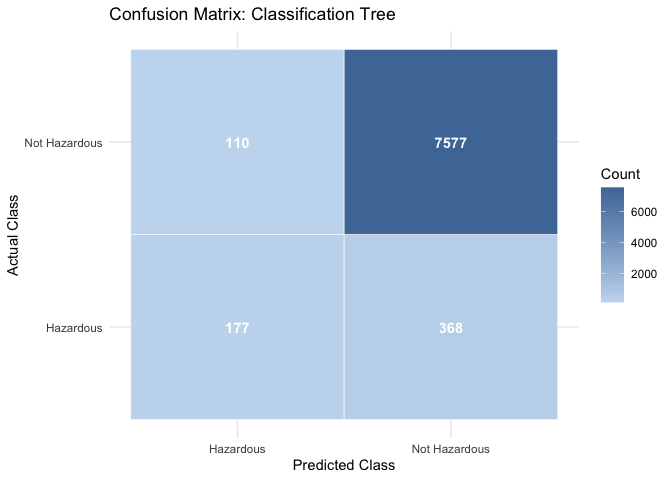
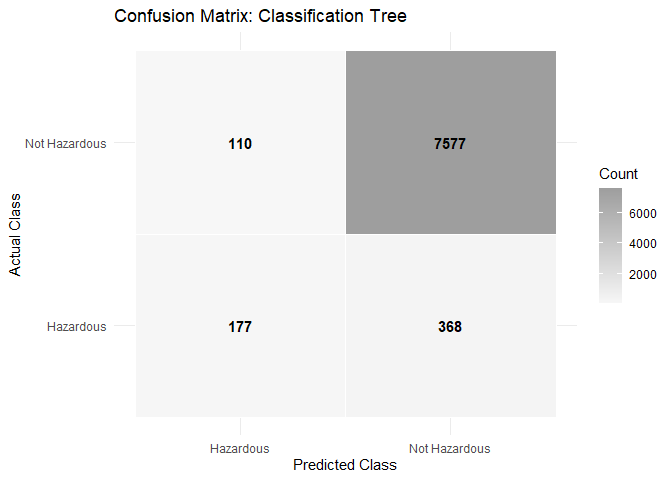
Model wording tweaks + rm variable importance redundancy

diff --git a/README.md b/README.md
@@ -13,7 +13,11 @@ Hazardous Asteroids (PHAs)**, objects large enough and close enough to
 Earth’s orbit that a future impact cannot be completely ruled out.
 Understanding what distinguishes a hazardous NEO from a non-hazardous
 one is both scientifically interesting and practically important for
-planetary defense planning.
+planetary defense planning. The official definition matters for this
+project: [NASA CNEOS](https://cneos.jpl.nasa.gov/about/neo_groups.html)
+defines PHAs as asteroids with Earth MOID \<= 0.05 au and absolute
+magnitude H \<= 22.0, so size, brightness, and orbital-distance measures
+are directly tied to the label.
 
 This report investigates a dataset of 42,919 NEOs sourced from NASA’s
 NeoWs (Near Earth Object Web Service) API. We explore which physical and
@@ -76,7 +80,7 @@ the response is deeply nested JSON, each page was parsed manually using
 approach data, and orbital fields into a flat tibble. After all pages
 were collected and row-bound, the result was exported to
 `neo_full_dataset.xlsx` using `openxlsx`. The full extraction script is
-available in `DS2020_Final_Data_Extraction.Rmd` in this repository.
+available in `DS2020 Final Data Extraction.Rmd` in this repository.
 
 The `.xlsx` file is loaded here for analysis using `readxl`. No API
 calls are made during knitting, so the report is fully reproducible from
@@ -164,7 +168,7 @@ colSums(is.na(neo_raw))
     ## is_potentially_hazardous_asteroid 
     ##                                 0
 
-Two groups of missing values stand out:
+Three missing-value observations stand out:
 
 - **1,762 rows** are missing both `miss_distance_km` and
   `relative_velocity_km_s`. These are two of our most important
@@ -451,40 +455,6 @@ underlying physical property (size) from different angles. This
 multicollinearity means the model may attribute importance to one or the
 other somewhat arbitrarily; we treat them as overlapping evidence rather
 than independent signals.
-
-### Variable Importance (Classification Tree)
-
-``` r
-tree_fit <- rpart(
-  hazardous ~ diam_avg_km + relative_velocity_km_s + miss_distance_km +
-    absolute_magnitude_h + orbital_eccentricity + orbital_inclination +
-    orbital_semi_major_axis,
-  data = neo_clean,
-  method = "class"
-)
-
-importance_df <- tibble(
-  variable = names(tree_fit$variable.importance),
-  importance = as.numeric(tree_fit$variable.importance)
-) %>%
-  arrange(desc(importance))
-
-ggplot(importance_df, aes(x = reorder(variable, importance), y = importance)) +
-  geom_col(fill = "#1B9E77") +
-  coord_flip() +
-  labs(
-    title = "Variable Importance from Classification Tree",
-    x = NULL,
-    y = "Importance"
-  ) +
-  theme_minimal()
-```
-
-![](README_files/figure-gfm/variable-importance-1.png)<!-- -->
-
-This first tree is an exploratory check rather than the final model
-evaluation. A proper held-out train/test comparison appears after the
-remaining research-question plots.
 
 > **Note on exploration:** We initially explored scatter plots of raw
 > velocity and miss distance before realizing the overlap between
@@ -959,8 +929,8 @@ confusion_df <- tibble(
 
 ggplot(confusion_df, aes(x = predicted, y = actual, fill = n)) +
   geom_tile(color = "white") +
-  geom_text(aes(label = n), color = "white", fontface = "bold") +
-  scale_fill_gradient(low = "#C6DBEF", high = class_colors[["Not Hazardous"]]) +
+  geom_text(aes(label = n), color = "black", fontface = "bold") +
+  scale_fill_gradient(low = "#F7F7F7", high = "#9E9E9E") +
   labs(
     title = "Confusion Matrix: Classification Tree",
     x = "Predicted Class",
@@ -1004,13 +974,13 @@ bind_rows(tree_metrics, logit_metrics) %>%
 
 Classification tree vs. logistic regression on the same test set
 
-Both models show similar patterns: high specificity, moderate-to-low
-recall, and accuracy figures that are partly inflated by the class
-imbalance. The close agreement between the two very different model
-types strengthens confidence that the findings reflect genuine structure
-in the data rather than a quirk of the decision tree algorithm. Where
-the models disagree, the difference is small and consistent with
-sampling variation on the minority class.
+Both models show high specificity and weak hazardous-class recall,
+confirming that non-hazardous asteroids are much easier to identify than
+hazardous ones in this dataset. The classification tree has materially
+better recall than logistic regression, so it remains the main model.
+Logistic regression still serves as a useful robustness check: the
+accuracy problem and minority-class recall limitation are not artifacts
+of the tree alone.
 
 ### Classification Tree Variable Importance
 
@@ -1112,8 +1082,9 @@ Several directions would strengthen this analysis:
   currently in the dataset
 - **Address class imbalance** through oversampling (SMOTE) or
   cost-sensitive learning to improve recall on hazardous objects
-- **Compare model types**: logistic regression and random forests would
-  provide useful benchmarks against the classification tree
+- **Compare additional model types**: random forests, boosted trees, and
+  calibrated probability models would provide useful benchmarks against
+  the classification tree
 - **Track the same asteroid over multiple close approaches** rather than
   treating each approach record independently, which could introduce
   subtle data leakage